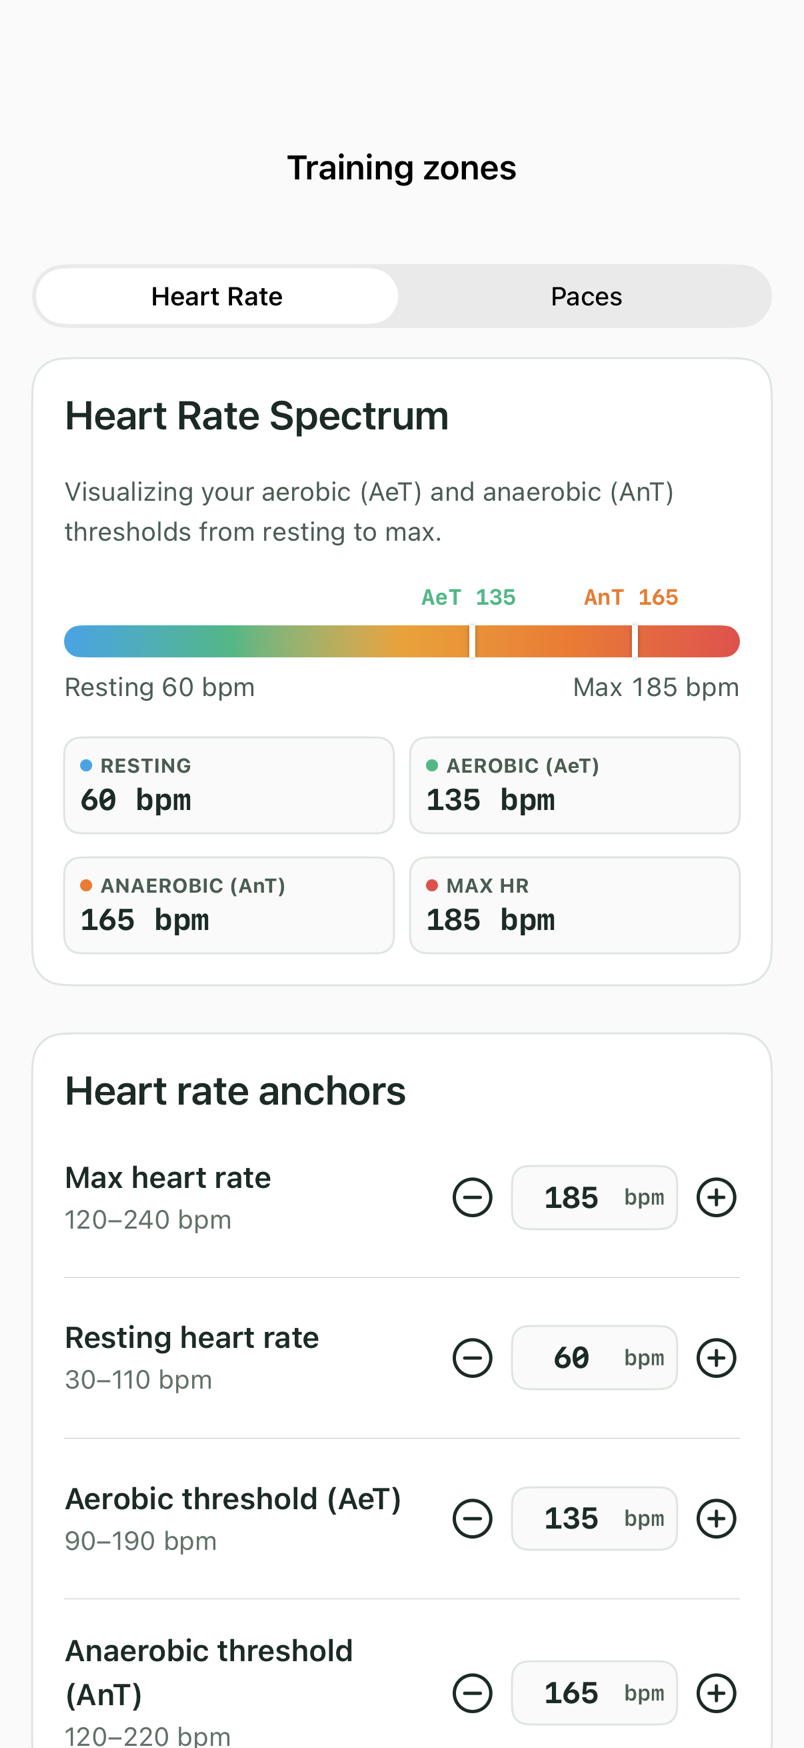
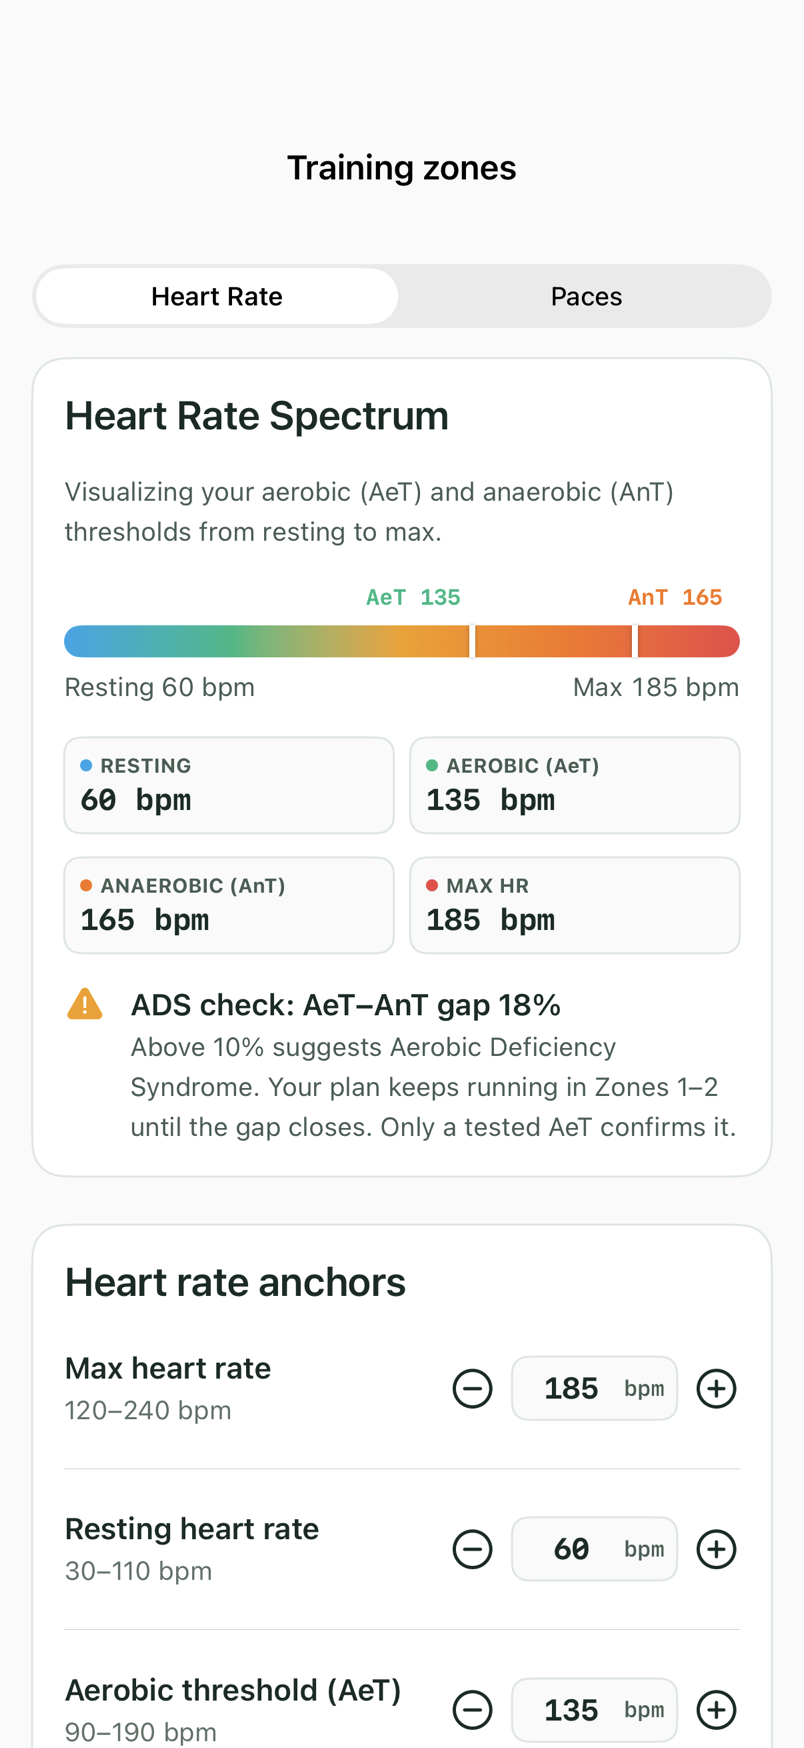
iOS: ADS check on Training zones (#159)
* iOS: ADS check on Training zones heart rate tab

Shows the AeT-AnT gap and flags Aerobic Deficiency Syndrome above 10%,
matching the plan prompt's ADS rule.

* Screenshot: ADS check on Training zones heart rate tab

* iOS: Vietnamese strings for ADS check

---------

diff --git a/ios-native/UphillAI/Features/Me/ProfileSettingsScreen.swift b/ios-native/UphillAI/Features/Me/ProfileSettingsScreen.swift
@@ -171,6 +171,8 @@ struct ProfileSettingsScreen: View {
                     statChip(title: "ANAEROBIC (AnT)", value: "\(model.draft.antHr) bpm", color: Color(hex: "#f97316"))
                     statChip(title: L("MAX HR"), value: "\(model.draft.maxHr) bpm", color: Color(hex: "#ef4444"))
                 }
+
+                adsCheck
             }
             .trainingCard()
 
@@ -207,6 +209,26 @@ struct ProfileSettingsScreen: View {
             }
             .buttonStyle(.plain)
             .trainingCard()
+        }
+    }
+
+    @ViewBuilder private var adsCheck: some View {
+        if let gap = model.draft.adsGap {
+            let ads = model.draft.hasADS
+            HStack(alignment: .top, spacing: UH.Space.small) {
+                Image(systemName: ads ? "exclamationmark.triangle.fill" : "checkmark.circle.fill")
+                    .foregroundStyle(ads ? Color(hex: "#f59e0b") : Color(hex: "#10b981"))
+                VStack(alignment: .leading, spacing: 2) {
+                    Text(L("ADS check: AeT–AnT gap %lld%%", Int((gap * 100).rounded())))
+                        .font(UH.TextStyle.label).foregroundStyle(UH.Palette.ink)
+                    Text(ads
+                        ? L("Above 10% suggests Aerobic Deficiency Syndrome. Your plan keeps running in Zones 1–2 until the gap closes. Only a tested AeT confirms it.")
+                        : L("10% or less: no sign of Aerobic Deficiency Syndrome. Watch estimates can hide it, so test AeT to be sure."))
+                        .font(UH.TextStyle.caption).foregroundStyle(UH.Palette.secondary)
+                        .fixedSize(horizontal: false, vertical: true)
+                }
+            }
+            .accessibilityElement(children: .combine)
         }
     }
 

diff --git a/ios-native/UphillAITests/Profile/ProfileSettingsTests.swift b/ios-native/UphillAITests/Profile/ProfileSettingsTests.swift
@@ -34,6 +34,16 @@ struct ProfileSettingsTests {
         #expect(draft.heartRateError == nil)
     }
 
+    @Test func adsCheckFlagsGapAboveTenPercent() throws {
+        var draft = ProfileDraft(user: try Fixture.decode(User.self, "auth_me.json"))
+        draft.aetHr = 130; draft.antHr = 160
+        #expect(draft.hasADS)
+        draft.aetHr = 150
+        #expect(!draft.hasADS)
+        draft.aetHr = 160
+        #expect(draft.adsGap == nil)
+    }
+
     @Test func offlineSaveDoesNotCallNetwork() async throws {
         let user = try Fixture.decode(User.self, "auth_me.json")
         let session = SessionStore(tokenStore: InMemoryTokenStore())

diff --git a/ios-native/UphillAI/Core/Profile/ProfileService.swift b/ios-native/UphillAI/Core/Profile/ProfileService.swift
@@ -58,6 +58,14 @@ struct ProfileDraft: Encodable, Sendable {
         if restingHr >= aetHr { return L("Resting heart rate must be below aerobic threshold (AeT).") }
         return nil
     }
+
+    /// (AnT - AeT) / AnT, the book's ADS marker; nil while the thresholds are out of order.
+    var adsGap: Double? {
+        aetHr > 0 && aetHr < antHr ? Double(antHr - aetHr) / Double(antHr) : nil
+    }
+
+    /// Above 10% matches the plan prompt's ADS rule (backend plan_rules.py).
+    var hasADS: Bool { (adsGap ?? 0) > 0.10 }
 }
 
 struct PaceZoneRow: Identifiable {
